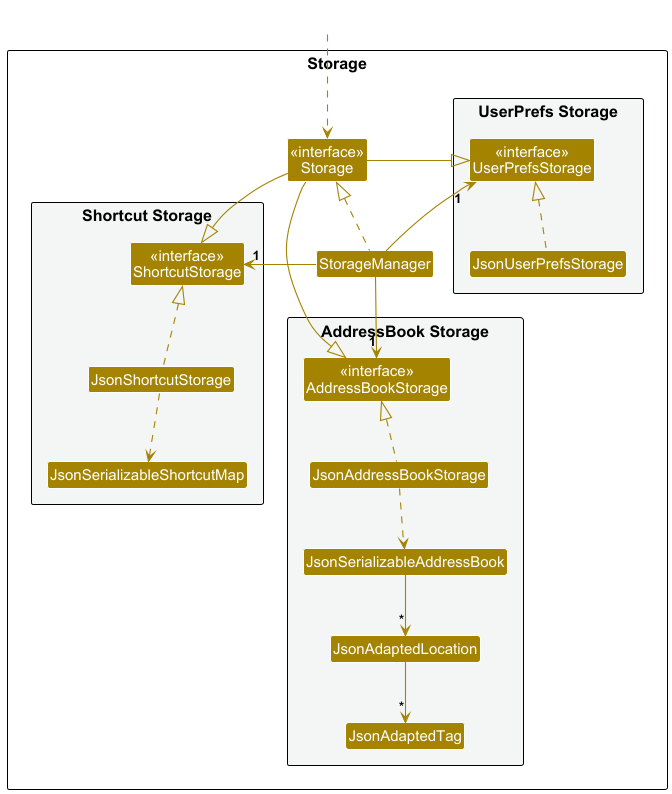
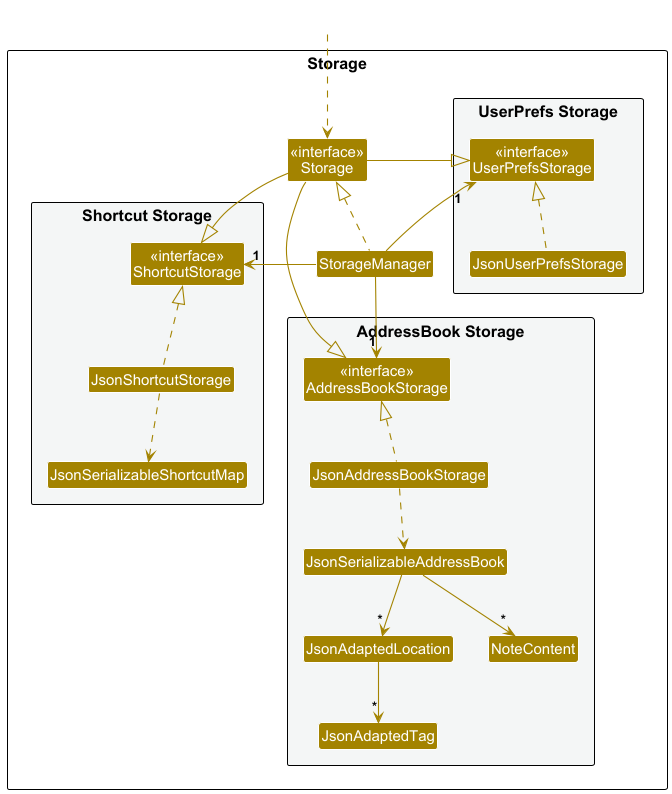
Fix Issue #252 (#272)

Changed region(s): [[0.4375, 0.7557, 0.875, 0.8463], [0.4688, 0.8766, 0.6875, 0.9673], [0.4688, 0.3929, 0.7812, 0.4534]]

diff --git a/docs/DeveloperGuide.md b/docs/DeveloperGuide.md
@@ -150,10 +150,11 @@ The `Model` component,
 <img src="images/StorageClassDiagram.png" width="550" />
 
 The `Storage` component,
-* can save address book data, user preference data, and shortcut mappings in JSON format, and read them back into corresponding model objects.
+* can save address book data, planner notes, user preference data, and shortcut mappings in JSON format, and read them back into corresponding model objects.
 * exposes the `Storage` interface, which extends `AddressBookStorage`, `UserPrefsStorage`, and `ShortcutStorage`, so clients can depend on either the unified API or a narrower storage interface when needed.
 * is implemented by `StorageManager`, which delegates each persistence concern to `JsonAddressBookStorage`, `JsonUserPrefsStorage`, and `JsonShortcutStorage` respectively.
-* depends on classes in the `Model` component because it serializes and deserializes model-owned data such as the address book, user preferences, and shortcut map.
+* persists planner notes as part of the address book data. `JsonSerializableAddressBook` stores them in a top-level `notes` JSON object that maps each `VisitDate` data string to its `NoteContent` text, so notes are saved and loaded together with locations through `AddressBookStorage`.
+* depends on classes in the `Model` component because it serializes and deserializes model-owned data such as the address book, planner notes, user preferences, and shortcut map.
 
 ### Common classes
 
